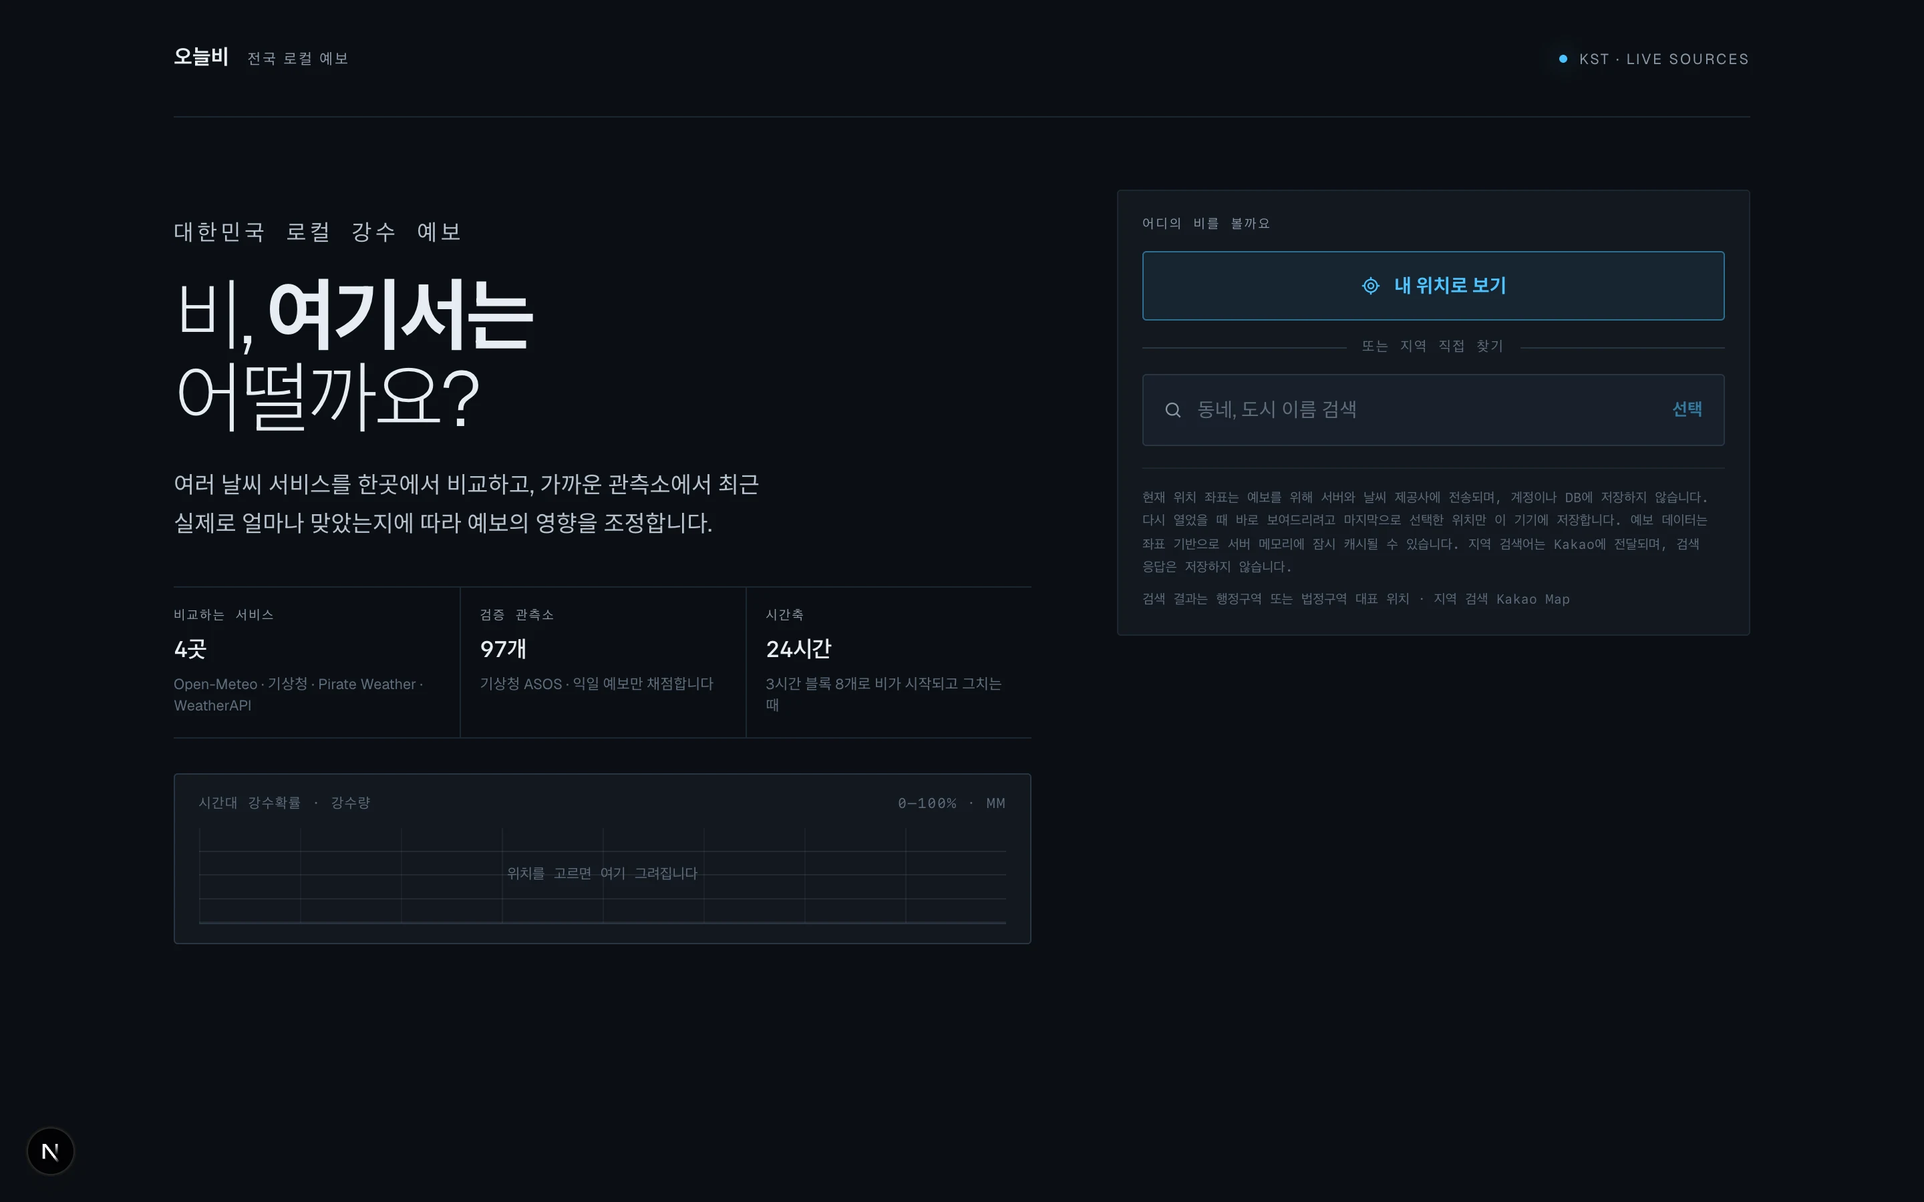
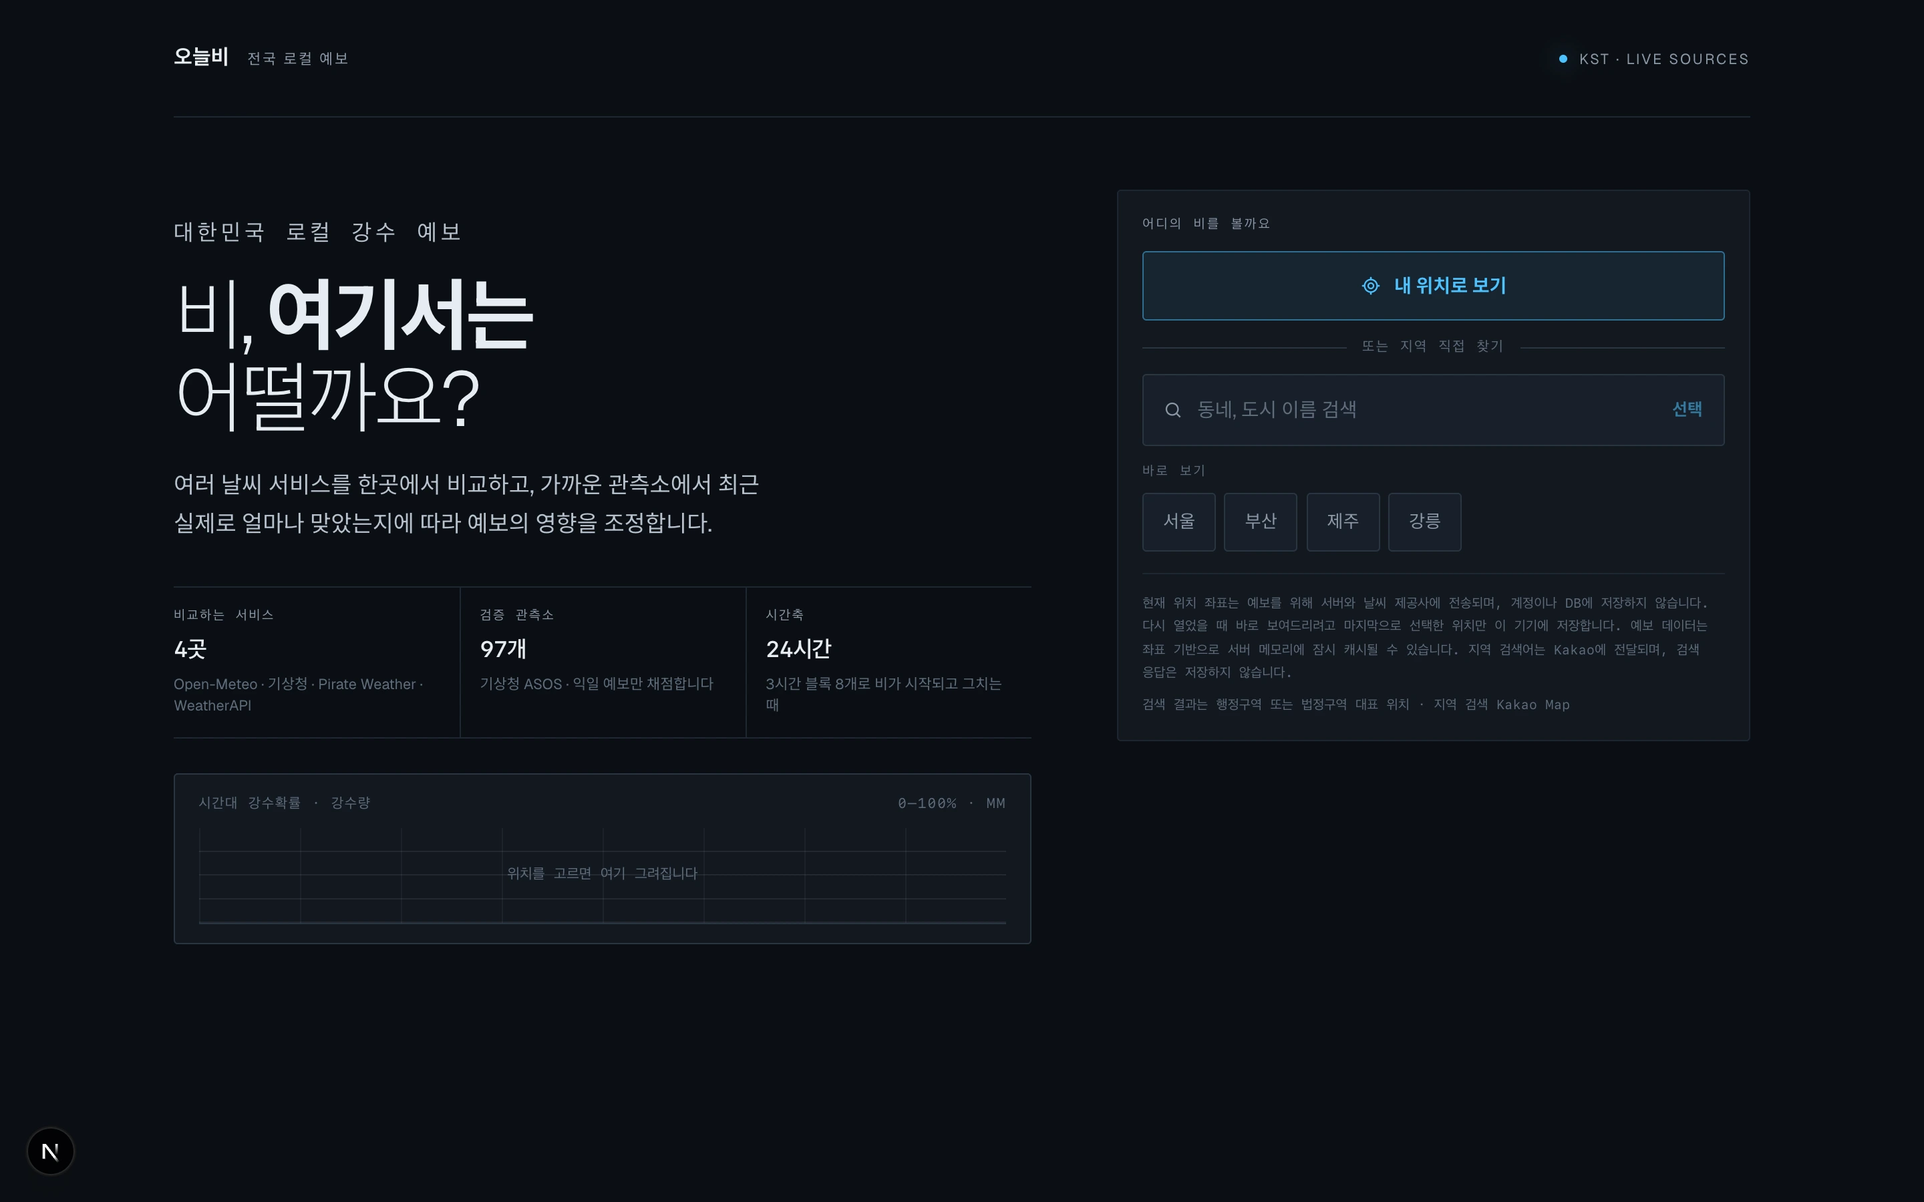
fix(chooser): give a visitor who cannot type Hangul a way in (#126)
* fix(chooser): give a visitor who cannot type Hangul a way in

Kakao's administrative search matches Hangul only — `seoul`, `Seoul`,
`busan` and `gangnam` all return no results — and geolocation from
outside the service area is refused with a message directing the visitor
to that search. The two failure paths pointed at each other, so a visitor
with neither a Korean device location nor a Hangul keyboard could not
reach the forecast at all.

Add a third way in: four worked examples committing Kakao's own
representative points through the same path a selected search result
takes. The coordinates are taken from `/api/locations/search` rather than
typed, and a test asserts each is inside the generated service area — a
transposed digit would otherwise ship a chip that lands on the very
out-of-area error this removes.

The chips are achromatic: blue, teal and amber mean the chance of rain,
the amount, and the window, and a shortcut is none of those.

Also rewords the three dead-end messages so none of them ends in an
instruction the reader cannot follow, and corrects a comment that still
said the loading overlay contacts "these five" providers.

Closes #121

* docs: re-shoot the chooser screenshot with the worked examples

Changed region(s): [[0.5938, 0.4044, 0.875, 0.5911]]

diff --git a/components/local/LocalForecastExperience.tsx b/components/local/LocalForecastExperience.tsx
@@ -2,6 +2,7 @@
 
 import { useEffect, useId, useRef, useState, type CSSProperties, type KeyboardEvent as ReactKeyboardEvent, type PointerEvent as ReactPointerEvent } from "react";
 import { CONDITION_LABELS_KO } from "@/lib/conditions";
+import { EXAMPLE_FORECAST_LOCATIONS } from "@/lib/exampleLocations";
 import { periodNameForHour } from "@/lib/forecast/blocks";
 import type { TimelineReading } from "@/lib/forecast/rainWindow";
 import {
@@ -359,7 +360,7 @@ export function LocationChooser({ onChoose, autoFocus = false, busy = false }: {
             setResults([]);
             setActiveResultIndex(-1);
             setRetryAvailable(false);
-            setMessage("이곳에서는 지역 검색을 쓸 수 없어요. 위의 ‘내 위치로 보기’를 사용해 주세요.");
+            setMessage("이곳에서는 지역 검색을 쓸 수 없어요. 아래 예시나 위의 ‘내 위치로 보기’를 사용해 주세요.");
             return;
           }
         }
@@ -392,10 +393,16 @@ export function LocationChooser({ onChoose, autoFocus = false, busy = false }: {
     };
   }, [query, retryVersion]);
 
-  const chooseSearchResult = (result: ForecastLocationSearchResult) => {
+  // An in-flight search must not land on top of a coordinate the visitor has
+  // already committed, whichever of the two ways in they took.
+  const commitChoice = (choice: ChosenForecastLocation) => {
     requestSequence.current += 1;
     activeRequest.current?.abort();
-    onChoose({
+    onChoose(choice);
+  };
+
+  const chooseSearchResult = (result: ForecastLocationSearchResult) => {
+    commitChoice({
       // The fully qualified label, not the bare leaf: dozens of Korean towns
       // share a 동 name, and "중앙동" alone cannot confirm the right place.
       name: result.label || result.name,
@@ -409,7 +416,7 @@ export function LocationChooser({ onChoose, autoFocus = false, busy = false }: {
   const useCurrentLocation = () => {
     setMessage(null);
     if (!navigator.geolocation) {
-      setMessage("이 브라우저에서는 위치 기능을 사용할 수 없어요. 지역을 검색해 주세요.");
+      setMessage("이 브라우저에서는 위치 기능을 사용할 수 없어요. 아래에서 지역을 고르거나 검색해 주세요.");
       return;
     }
     // A high-accuracy fix can take the full 12s timeout. Without this the button
@@ -435,7 +442,7 @@ export function LocationChooser({ onChoose, autoFocus = false, busy = false }: {
       }),
       () => {
         setLocating(false);
-        setMessage("위치를 확인하지 못했어요. 권한을 확인하거나 지역을 검색해 주세요.");
+        setMessage("위치를 확인하지 못했어요. 권한을 확인하거나 아래에서 지역을 골라 주세요.");
       },
       { enableHighAccuracy: true, timeout: 12_000, maximumAge: 0 },
     );
@@ -643,6 +650,37 @@ export function LocationChooser({ onChoose, autoFocus = false, busy = false }: {
           ))}
         </ul>
         </div>
+        </div>
+
+        {/* The third way in. Both of the two above assume something a visitor
+            may not have — a device inside Korea, or a place name they can type
+            in Hangul, which is the only script Kakao's administrative search
+            matches. Without these the two failure paths pointed at each other
+            and there was no way through (#121). Achromatic on purpose: colour
+            here belongs to the chance of rain, the amount, and the window. */}
+        <div className="local-examples">
+          <p className="local-examples-label" id="location-examples">바로 보기</p>
+          <ul aria-labelledby="location-examples">
+            {EXAMPLE_FORECAST_LOCATIONS.map((example) => (
+              <li key={example.name}>
+                <button
+                  type="button"
+                  onClick={() => commitChoice({
+                    name: example.name,
+                    latitude: example.latitude,
+                    longitude: example.longitude,
+                    // As with a search result: an area representative point
+                    // carries no elevation, and inventing one would feed the
+                    // station gate a number nobody measured.
+                    elevationM: null,
+                    selection: example.selection,
+                  })}
+                >
+                  {example.short}
+                </button>
+              </li>
+            ))}
+          </ul>
         </div>
 
         <div className="local-privacy-note">
@@ -1555,7 +1593,7 @@ export default function LocalForecastExperience() {
         error instanceof ForecastOutOfServiceAreaError
           ? {
               kind: "error",
-              message: "이 위치는 대한민국 서비스 지역 밖이에요. 대한민국 안의 지역을 검색해 주세요.",
+              message: "이 위치는 대한민국 서비스 지역 밖이에요. 대한민국 안의 지역을 고르면 바로 예보를 볼 수 있어요.",
               retry: null,
             }
           : {
@@ -1684,7 +1722,7 @@ export default function LocalForecastExperience() {
           <p className="local-loading-lead">
             예보 <b>{COMPARED_PROVIDER_NAMES.length}곳</b>을 불러오는 중입니다
           </p>
-          {/* Names, not a spinner: the wait is spent contacting these five, and
+          {/* Names, not a spinner: the wait is spent contacting exactly these, and
               a neutral spinner hides the one honest thing happening. No
               per-provider state — the API answers once, so a row that claimed
               to know which of them had replied would be inventing it. */}

diff --git a/components/local/LocalForecastExperience.test.tsx b/components/local/LocalForecastExperience.test.tsx
@@ -31,6 +31,7 @@ const {
   VERIFICATION_STATION_COUNT,
   default: LocalForecastExperience,
 } = await import("./LocalForecastExperience");
+const { EXAMPLE_FORECAST_LOCATIONS } = await import("../../lib/exampleLocations.ts");
 
 function kakaoResult(input: {
   id: string;
@@ -70,7 +71,12 @@ async function mountChooser(fetchImpl: typeof fetch) {
   document.body.replaceChildren();
   const container = document.createElement("div");
   document.body.append(container);
-  const choices: Array<{ name: string }> = [];
+  const choices: Array<{
+    name: string;
+    latitude: number;
+    longitude: number;
+    elevationM: number | null;
+  }> = [];
   let root: Root | null = null;
   await act(async () => {
     root = createRoot(container);
@@ -1743,6 +1749,40 @@ test("the ribbon sweeps in like a chart recorder, as a class reduced-motion can 
   await view.cleanup();
 });
 
+
+/**
+ * #121: Kakao's administrative search matches Hangul only, and geolocation from
+ * outside Korea is refused, so before the worked examples existed a visitor who
+ * had neither was handed two errors that pointed at each other. This asserts the
+ * way through, and that a chip commits the coordinate the module declares rather
+ * than one the markup rounded or transposed.
+ */
+test("a visitor who cannot type Hangul still has a way in", async () => {
+  const view = await mountChooser(async () => Response.json({ results: [] }));
+
+  const chips = [...view.container.querySelectorAll<HTMLButtonElement>(".local-examples button")];
+  assert.equal(chips.length, EXAMPLE_FORECAST_LOCATIONS.length);
+
+  const busan = EXAMPLE_FORECAST_LOCATIONS.find((example) => example.short === "부산");
+  assert.ok(busan, "the example set covers somewhere that is not Seoul");
+  const chip = chips.find((button) => button.textContent === busan.short);
+  assert.ok(chip, "the chip reads as the short leaf");
+
+  await act(async () => chip.click());
+
+  assert.deepEqual(view.choices, [{
+    name: busan.name,
+    latitude: busan.latitude,
+    longitude: busan.longitude,
+    // An area representative point carries no measured elevation, exactly as a
+    // search result does not.
+    elevationM: null,
+    selection: busan.selection,
+  }]);
+  assert.notEqual(busan.name, busan.short, "the fully qualified name is committed, not the leaf");
+
+  await view.cleanup();
+});
 
 test("the chooser previews the instrument it is about to fill, empty and honest", async () => {
   const view = await mountChooser(async () => Response.json({ results: [] }));

diff --git a/lib/exampleLocations.ts b/lib/exampleLocations.ts
@@ -1,0 +1,63 @@
+import type { ForecastLocationSelection } from "./locationPrecision.ts";
+
+/**
+ * One worked example the chooser can commit without typing.
+ *
+ * The chooser's two ways in both assume something a visitor may not have: a
+ * device inside the service area, or a Korean place name they can type. Kakao's
+ * administrative search matches Hangul only — `seoul`, `Seoul` and `busan` all
+ * return nothing — so a visitor with neither was left with two errors that
+ * pointed at each other (#121).
+ */
+export interface ExampleForecastLocation {
+  /** What the chip reads. The short leaf, because the chip is a shortcut. */
+  short: string;
+  /**
+   * What is committed. The fully qualified label, for the same reason
+   * `chooseSearchResult` commits one: dozens of Korean places share a leaf name.
+   */
+  name: string;
+  latitude: number;
+  longitude: number;
+  selection: ForecastLocationSelection;
+}
+
+/**
+ * Kakao's own administrative representative points, taken from
+ * `/api/locations/search` rather than typed by hand, so an example commits the
+ * identical coordinate the same place would commit through the search. A test
+ * asserts every one of them is inside the generated service area.
+ *
+ * Four, spread across the peninsula and off it: the point of the set is that
+ * somewhere in it forecasts differently from Seoul today.
+ */
+export const EXAMPLE_FORECAST_LOCATIONS: readonly ExampleForecastLocation[] = [
+  {
+    short: "서울",
+    name: "서울특별시",
+    latitude: 37.5668260046608,
+    longitude: 126.978652258309,
+    selection: { kind: "area", areaKind: "administrative-area" },
+  },
+  {
+    short: "부산",
+    name: "부산광역시",
+    latitude: 35.1797374828769,
+    longitude: 129.075067831231,
+    selection: { kind: "area", areaKind: "administrative-area" },
+  },
+  {
+    short: "제주",
+    name: "제주특별자치도 제주시",
+    latitude: 33.4995342411967,
+    longitude: 126.531171087132,
+    selection: { kind: "area", areaKind: "administrative-area" },
+  },
+  {
+    short: "강릉",
+    name: "강원특별자치도 강릉시",
+    latitude: 37.7521116823526,
+    longitude: 128.875906235799,
+    selection: { kind: "area", areaKind: "administrative-area" },
+  },
+] as const;

diff --git a/lib/exampleLocations.test.ts b/lib/exampleLocations.test.ts
@@ -1,0 +1,46 @@
+import assert from "node:assert/strict";
+import test from "node:test";
+
+import { EXAMPLE_FORECAST_LOCATIONS } from "./exampleLocations.ts";
+import { isInsideServiceArea } from "./locationServiceArea.ts";
+
+/**
+ * These four coordinates are the only ones in the product that no visitor
+ * action produced: a search result is validated by having come back from Kakao,
+ * and a device fix is validated on the way in. An example is a literal, so a
+ * transposed digit would ship a chip that answers "이 위치는 대한민국 서비스
+ * 지역 밖이에요" — the exact dead end #121 exists to remove.
+ */
+test("every worked example is inside the service area", () => {
+  for (const example of EXAMPLE_FORECAST_LOCATIONS) {
+    assert.equal(
+      isInsideServiceArea(example.latitude, example.longitude),
+      true,
+      `${example.name} (${example.latitude}, ${example.longitude}) is outside the service area`,
+    );
+  }
+});
+
+test("the chooser has examples to offer", () => {
+  assert.ok(EXAMPLE_FORECAST_LOCATIONS.length >= 3);
+});
+
+/**
+ * The committed name is what the dashboard and the stored location carry, and
+ * what `/behind-the-data` shows. A bare leaf cannot confirm the right place.
+ */
+test("each example commits a fully qualified name containing its chip label", () => {
+  for (const example of EXAMPLE_FORECAST_LOCATIONS) {
+    assert.ok(
+      example.name.includes(example.short),
+      `${example.name} does not contain its chip label ${example.short}`,
+    );
+  }
+});
+
+test("examples are distinct places", () => {
+  const names = EXAMPLE_FORECAST_LOCATIONS.map((example) => example.name);
+  const shorts = EXAMPLE_FORECAST_LOCATIONS.map((example) => example.short);
+  assert.equal(new Set(names).size, names.length);
+  assert.equal(new Set(shorts).size, shorts.length);
+});

diff --git a/app/globals.css b/app/globals.css
@@ -483,6 +483,46 @@ html {
   display: none;
 }
 
+/* The third way in (#121). Quiet outlined chips: they have to read as
+   available without competing with 내 위치로 보기, which stays the primary, and
+   they carry no colour — blue, teal and amber mean the chance of rain, the
+   amount, and the window, and a shortcut is none of those. */
+.local-examples {
+  display: grid;
+  gap: 0.5rem;
+}
+
+.local-examples-label {
+  font-family: var(--local-mono);
+  font-size: 0.62rem;
+  letter-spacing: 0.16em;
+  text-transform: uppercase;
+  color: var(--local-dim);
+}
+
+.local-examples ul {
+  display: flex;
+  flex-wrap: wrap;
+  gap: 0.4rem;
+}
+
+.local-examples button {
+  min-height: 2.75rem;
+  padding: 0 0.9rem;
+  border: 1px solid var(--local-line-2);
+  border-radius: 3px;
+  background: var(--local-panel-2);
+  color: var(--local-muted);
+  font-size: 0.82rem;
+  cursor: pointer;
+  transition: border-color 160ms ease, color 160ms ease;
+}
+
+.local-examples button:hover {
+  border-color: var(--local-line);
+  color: var(--local-ink);
+}
+
 .local-search-results {
   margin-top: 0.65rem;
   max-height: min(19rem, 42svh);

diff --git a/README.md b/README.md
@@ -13,7 +13,7 @@ The interface is Korean, for Korean users. The captions below describe what each
 
 ![The chooser: pick the device location, or search a Korean administrative area](public/screenshots/landing.webp)
 
-*Nothing is requested until the visitor asks — the app never prompts for location automatically or infers it from an IP address. The three figures beside the two ways in are the same evidence the forecast ends on, stated before anyone commits a coordinate.*
+*Nothing is requested until the visitor asks — the app never prompts for location automatically or infers it from an IP address. The three figures beside the ways in are the same evidence the forecast ends on, stated before anyone commits a coordinate. There are three ways in and the third is not decorative: Kakao's administrative search matches Hangul only, and geolocation outside the service area is refused, so a visitor with neither used to be handed two errors that pointed at each other.*
 
 ![The rain window as a sentence, above the 24-hour time axis](public/screenshots/forecast.webp)
 
@@ -93,7 +93,7 @@ npm run performance:seed -- --start=2025-06-01 --end=2025-08-31
 
 The forecast is the site, so it is served at `/`:
 
-1. choose precise browser location or search for a Korean place;
+1. choose precise browser location, search for a Korean place, or take one of the worked examples;
 2. read when rain starts and stops, as one sentence;
 3. read the shape of the next 24 hours on a horizontal time axis — eight 3-hour blocks from a single named provider, probability above and that provider's own per-block amounts on a second lane below;
 4. compare today and tomorrow, each tagged with how it was calculated;
@@ -130,7 +130,7 @@ flowchart TB
 
 Important boundaries:
 
-- `lib/location.ts` validates Korean coordinates and converts them to KMA grid coordinates.
+- `lib/location.ts` validates Korean coordinates and converts them to KMA grid coordinates; `lib/exampleLocations.ts` holds the chooser's worked examples, which are Kakao's own representative points and are tested against the service-area geometry.
 - `lib/providers/*` reads normalized provider snapshots at a requested location; `lib/providers/registry.ts` holds the single ordered list of compared providers, and the first one that answers becomes the comparison primary.
 - `lib/performance/performance.ts` owns scoring, evidence gates, bounded weights, and the Prospective Benchmark.
 - `lib/performance/store.ts` defines persistence; `lib/performance/postgres.ts` is the production adapter.

diff --git a/CLAUDE.md b/CLAUDE.md
@@ -47,6 +47,7 @@ The application works without environment variables. Copy `.env.example` to `.en
 - The same rule binds inside a card: the amount is a mean of only the providers that publish one, which is fewer than the probability beside it, so a card's provider-count tag must never stand for both numbers. `blendPrecipitation` reports `amountProviderCount`, and the amount carries its own count whenever the two differ.
 - A provider that is missing, unconfigured, or failing must leave an honest fallback rather than a blank panel or a fabricated value.
 - The two failure shapes stay distinct: `retry` is null exactly when the same request can never succeed, and that card must offer no retry. The loading screen may name the providers being contacted but must never claim per-provider progress — `/api/local-forecast` answers once, so any such row would be invented.
+- The chooser offers three ways in, and needs all three: browser geolocation, the Kakao administrative search, and the worked examples in `lib/exampleLocations.ts`. The search matches Hangul only and geolocation outside the service area is refused, so without the examples a visitor with neither got two errors that pointed at each other (#121). Those coordinates are Kakao's own representative points, not hand-typed, and a test asserts every one is inside the generated service area.
 - `COMPARED_PROVIDER_NAMES` and `VERIFICATION_STATION_COUNT` are what the chooser asserts before anyone commits a coordinate. The station count is a literal because the generated catalog must not reach the client bundle; a test pins it to `FALLBACK_STATION_CATALOG.length`.
 - Preserve required attribution for Kakao Map (administrative search), Open-Meteo, 기상청 — both the short-term forecast and the ASOS observations the scoring rests on — Pirate Weather, and WeatherAPI. Those are the sources whose data the page actually shows. CARTO/OpenStreetMap and RainViewer are deliberately no longer credited: they credited the radar basemap and approach signal, and the radar is gone, so naming them would describe something the reader is not being shown. MET Norway is absent for the same reason. The credit list follows the served data and nothing else.
 
